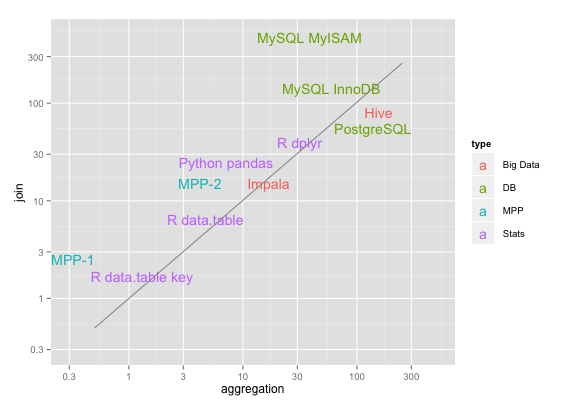
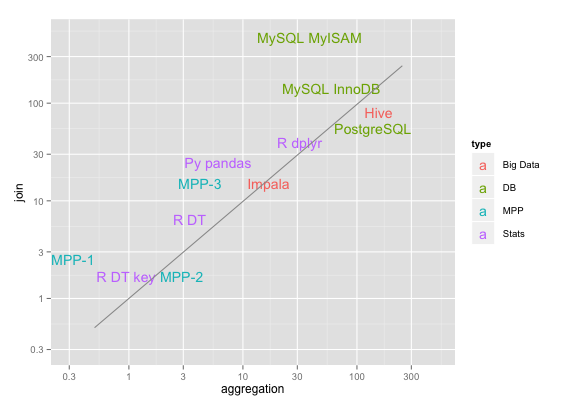
main doc

diff --git a/README.md b/README.md
@@ -120,15 +120,16 @@ a comprehensive SQL benchmark is out of the scope here.
 
 |  Type      | System           |  Load/Read    |   Aggregation  |   Join   |
 | ---------- | ---------------- | ------------- | -------------- | -------- |
-|  Stats     | R data.table     |   30          |       5.5      |    6.5   |
-|  Stats     | R data.table key |   35          |       1.3      |    1.7   |
+|  Stats     | R DT             |   30          |       5.5      |    6.5   |
+|  Stats     | R DT key         |   35          |       1.3      |    1.7   |
 |  Stats     | R dplyr          |   30          |       45       |    40    |
-|  Stats     | Python pandas    |   30          |       8        |    25    |
+|  Stats     | Py pandas        |   30          |       8        |    25    |
 |  DB        | MySQL MyISAM     |   40          |       45       |    470   |  
 |  DB        | MySQL InnoDB     |   430         |       70       |    140   |
 |  DB        | PostgreSQL       |   120         |       175      |    55    |
 |  MPP       | MPP-1            |   70          |       0.5      |    2.5   |
-|  MPP       | MPP-2            |   130         |       6.5      |    15    |
+|  MPP       | MPP-2            |               |       4.5      |    1.7   |
+|  MPP       | MPP-3            |   130         |       6.5      |    15    |
 |  Big Data  | Hive             |   20          |       250      |    80    |
 |  Big Data  | Impala           |   20          |       25       |    15    |
 
